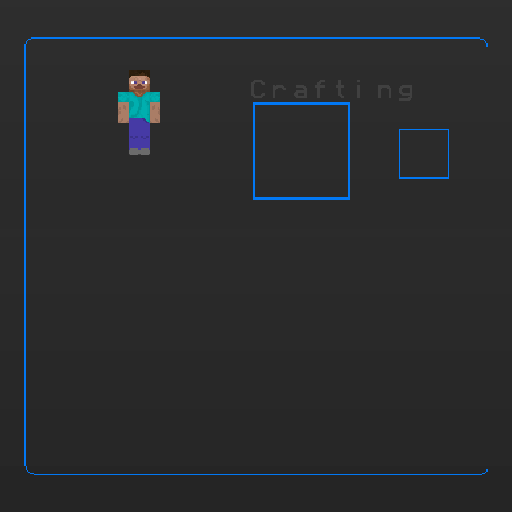
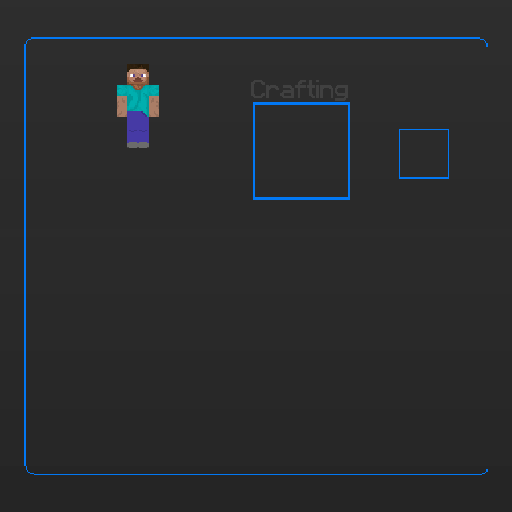
fix: compact Crafting text spacing and enlarge Steve skin
- Measure actual character width in ascii.png by scanning pixel columns
- Tight-pack characters with 1px spacing (Minecraft standard)
- Increase skin size to 95% of preview box height
- Adjust preview box coordinates to (27,8,49x70)

Changed region(s): [[0.2188, 0.125, 0.3125, 0.3125]]

diff --git a/scripts/extract-textures.js b/scripts/extract-textures.js
@@ -227,25 +227,56 @@ async function extractPack(zipPath) {
 
 async function renderMcText(asciiPath, text, targetCellH) {
   const meta = await sharp(asciiPath).metadata();
-  // ascii.png 是 16x16 网格，基准 cell = 8x8 (128x128 图集)
   const srcCellW = Math.round(meta.width / 16);
   const srcCellH = Math.round(meta.height / 16);
 
-  const charBuffers = [];
+  // 读取整个 ascii.png 的 raw 像素用于测量字符宽度
+  const asciiRaw = await sharp(asciiPath).ensureAlpha().raw().toBuffer({ resolveWithObject: true });
+  const asciiPixels = asciiRaw.data;
+  const imgW = asciiRaw.info.width;
+
+  // 测量字符实际宽度：找最右非透明像素列
+  function getCharWidth(charCode) {
+    const col = charCode % 16;
+    const row = Math.floor(charCode / 16);
+    const ox = col * srcCellW;
+    const oy = row * srcCellH;
+    let maxCol = 0;
+    for (let cy = 0; cy < srcCellH; cy++) {
+      for (let cx = srcCellW - 1; cx >= 0; cx--) {
+        const idx = ((oy + cy) * imgW + (ox + cx)) * 4;
+        if (asciiPixels[idx + 3] > 0) {
+          if (cx + 1 > maxCol) maxCol = cx + 1;
+          break;
+        }
+      }
+    }
+    // 空格特殊处理：宽度 = cellW 的一半
+    if (maxCol === 0) return Math.round(srcCellW / 2);
+    return maxCol + 1; // +1 for spacing
+  }
+
+  const charInfos = [];
+  let totalW = 0;
   for (const c of text) {
     const code = c.charCodeAt(0);
     const col = code % 16;
     const row = Math.floor(code / 16);
-    const buf = await sharp(asciiPath)
-      .extract({ left: col * srcCellW, top: row * srcCellH, width: srcCellW, height: srcCellH })
-      .toBuffer();
-    charBuffers.push(buf);
+    const w = getCharWidth(code);
+    charInfos.push({ code, col, row, w });
+    totalW += w;
   }
 
-  const totalW = srcCellW * text.length;
-  const composites = charBuffers.map((buf, i) => ({
-    input: buf, left: i * srcCellW, top: 0,
-  }));
+  // 逐字符裁剪并紧凑拼接
+  const composites = [];
+  let curX = 0;
+  for (const info of charInfos) {
+    const buf = await sharp(asciiPath)
+      .extract({ left: info.col * srcCellW, top: info.row * srcCellH, width: info.w, height: srcCellH })
+      .toBuffer();
+    composites.push({ input: buf, left: curX, top: 0 });
+    curX += info.w;
+  }
 
   let textBuf = await sharp({
     create: { width: totalW, height: srcCellH, channels: 4, background: { r: 0, g: 0, b: 0, alpha: 0 } }
@@ -258,7 +289,6 @@ async function renderMcText(asciiPath, text, targetCellH) {
     }
   }
 
-  // 缩放到目标 cell 高度
   const ratio = targetCellH / srcCellH;
   const finalW = Math.round(totalW * ratio);
   const finalH = targetCellH;
@@ -330,11 +360,11 @@ async function generateInventoryPreview(inventoryPath, outputDir) {
     // 在 inventory 裁剪图上合成 Steve 和 Crafting 文字（在缩放之前）
     const invCropComposites = [];
 
-    // Steve 皮肤 - 预览框内部区域 (256-base): 约 (25,7) 起，宽51×高72
+    // Steve 皮肤 - 预览框内部区域 (256-base): 约 (27,8) 起，宽49×高70
     const skinPath = path.join(outputDir, 'steve.png');
     if (fs.existsSync(skinPath)) {
-      const boxX = 25, boxY = 7, boxW = 51, boxH = 72;
-      const skinTargetH = Math.round(boxH * scale * 0.85);
+      const boxX = 27, boxY = 8, boxW = 49, boxH = 70;
+      const skinTargetH = Math.round(boxH * scale * 0.95);
       const skinBuf = await renderSkinFront(skinPath, skinTargetH);
       const skinMeta = await sharp(skinBuf).metadata();
       const skinX = Math.round(boxX * scale + (boxW * scale - skinMeta.width) / 2);
